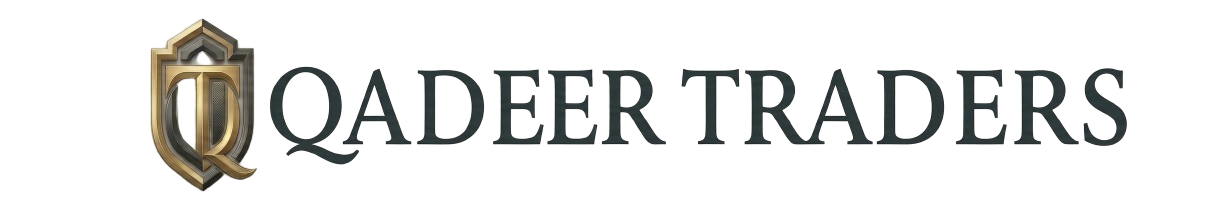
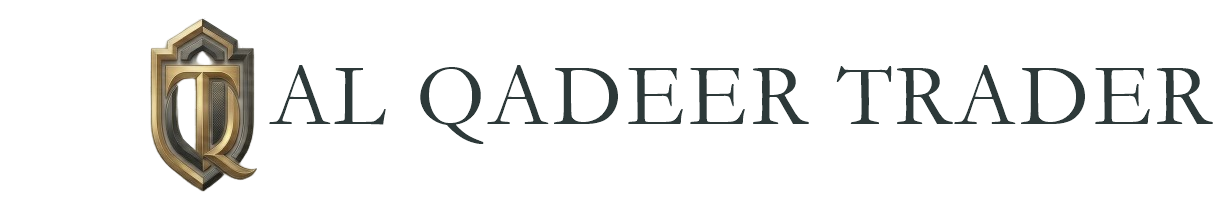
Rename Qadeer Traders to AL Qadeer Traders across the app

Changed region(s): [[0.2188, 0.322, 1.0, 0.8195]]

diff --git a/contact-us.html b/contact-us.html
@@ -8,7 +8,7 @@
     <link href="https://fonts.googleapis.com/css2?family=Playfair+Display:wght@400;700&family=Open+Sans:wght@300;400;600;700&display=swap" rel="stylesheet" /><link rel="stylesheet" href="styles.css" /><link rel="stylesheet" href="footer.css" /><link rel="stylesheet" href="responsive-nav.css" /><link rel="stylesheet" href="https://cdnjs.cloudflare.com/ajax/libs/font-awesome/6.7.2/css/all.min.css" />
   </head>
   <body class="inner-page">
-    <header class="navbar"><div class="nav-container"><a href="index.html" class="brand"><img src="image.png" alt="QADEER TRADERS" class="brand-logo" /></a><nav class="nav" aria-label="Main navigation"><ul class="nav-list"><li class="nav-item"><a href="index.html" class="nav-link">Home</a></li><li class="nav-item"><a href="about-us.html" class="nav-link">About Us</a></li><li class="nav-item dropdown"><button class="dropdown-toggle" aria-expanded="false">Products ▾</button><ul class="dropdown-menu"><li><a href="laminate-flooring.html">Laminate Wooden Flooring</a></li><li><a href="pvc-marble-sheets.html">PVC UV Marble Sheets</a></li><li><a href="wall-panels-pu-stone.html">Wall Panels &amp; PU Stone</a></li><li><a href="roller-blinds-smart-motors.html">Roller Blinds &amp; Smart Motors</a></li><li><a href="corian-vanities.html">Corian Vanities &amp; Tops</a></li><li><a href="custom-kitchens-wardrobes.html">Custom Kitchens &amp; Wardrobes</a></li><li><a href="wallpapers-murals.html">Wallpapers &amp; Murals</a></li></ul></li><li class="nav-item"><a href="services.html" class="nav-link">Services</a></li><li class="nav-item"><a href="contact-us.html" class="nav-link active">Contact Us</a></li></ul></nav></div></header>
+    <header class="navbar"><div class="nav-container"><a href="index.html" class="brand"><img src="image.png" alt="Al Qadeer Trader" class="brand-logo" /></a><nav class="nav" aria-label="Main navigation"><ul class="nav-list"><li class="nav-item"><a href="index.html" class="nav-link">Home</a></li><li class="nav-item"><a href="about-us.html" class="nav-link">About Us</a></li><li class="nav-item dropdown"><button class="dropdown-toggle" aria-expanded="false">Products ▾</button><ul class="dropdown-menu"><li><a href="laminate-flooring.html">Laminate Wooden Flooring</a></li><li><a href="pvc-marble-sheets.html">PVC UV Marble Sheets</a></li><li><a href="wall-panels-pu-stone.html">Wall Panels &amp; PU Stone</a></li><li><a href="roller-blinds-smart-motors.html">Roller Blinds &amp; Smart Motors</a></li><li><a href="corian-vanities.html">Corian Vanities &amp; Tops</a></li><li><a href="custom-kitchens-wardrobes.html">Custom Kitchens &amp; Wardrobes</a></li><li><a href="wallpapers-murals.html">Wallpapers &amp; Murals</a></li></ul></li><li class="nav-item"><a href="services.html" class="nav-link">Services</a></li><li class="nav-item"><a href="contact-us.html" class="nav-link active">Contact Us</a></li></ul></nav></div></header>
     <main><section class="inner-hero" style="background-image:url('pic2.jpeg')"><div class="inner-hero-content"><p class="eyebrow">Start a Conversation</p><h1>Let's Plan Your Space</h1><p>Share a few details about your project and the products you are considering.</p></div></section>
       <section class="inner-section"><div class="contact-layout"><aside class="contact-panel"><h2>Contact Information</h2><a class="contact-detail" href="tel:+923054003812"><strong>Phone</strong>+92 305 4003812<br />Syed Ahsan Naqvi</a><a class="contact-detail" href="tel:+923334596121"><strong>Contact</strong>+92 333 4596121<br />Farhan Mughal</a><a class="contact-detail" href="mailto:ahsannaqvi1122@gmail.com"><strong>Email</strong>ahsannaqvi1122@gmail.com</a><p class="contact-detail"><strong>Address:</strong>Building No. 216, Askari Bank, 1st Floor, FF, Phase 4, DHA Lahore</p></aside><div class="contact-panel"><h2>Tell Us About Your Project</h2><form class="contact-form" id="enquiryForm"><label>Name<input type="text" name="name" autocomplete="name" required /></label><label>Email<input type="email" name="email" autocomplete="email" required /></label><label>Phone<input type="tel" name="phone" autocomplete="tel" /></label><label>Service<select name="service"><option value="">Select a service</option><option>PVC UV Marble Sheets</option><option>Wall Panels &amp; PU Stone</option><option>Roller Blinds &amp; Smart Motors</option><option>Wallpapers &amp; Murals</option><option>Corian Vanities &amp; Tops</option><option>Custom Kitchens &amp; Wardrobes</option></select></label><label>Message<textarea name="message" required></textarea></label><button class="page-button" type="submit">Submit Enquiry</button></form></div></div></section>
       <section class="inner-cta"><h2>Ready to Talk?</h2><p>Call us directly or send your project details through the form above.</p><a class="page-button" href="tel:+923054003812">Call +92 305 4003812</a></section></main>

diff --git a/about-us.html b/about-us.html
@@ -8,7 +8,7 @@
     <link href="https://fonts.googleapis.com/css2?family=Playfair+Display:wght@400;700&family=Open+Sans:wght@300;400;600;700&display=swap" rel="stylesheet" /><link rel="stylesheet" href="styles.css" /><link rel="stylesheet" href="footer.css" /><link rel="stylesheet" href="responsive-nav.css" /><link rel="stylesheet" href="https://cdnjs.cloudflare.com/ajax/libs/font-awesome/6.7.2/css/all.min.css" />
   </head>
   <body class="inner-page">
-    <header class="navbar"><div class="nav-container"><a href="index.html" class="brand"><img src="image.png" alt="QADEER TRADERS" class="brand-logo" /></a><nav class="nav" aria-label="Main navigation"><ul class="nav-list"><li class="nav-item"><a href="index.html" class="nav-link">Home</a></li><li class="nav-item"><a href="about-us.html" class="nav-link active">About Us</a></li><li class="nav-item dropdown"><button class="dropdown-toggle" aria-expanded="false">Products ▾</button><ul class="dropdown-menu"><li><a href="laminate-flooring.html">Laminate Wooden Flooring</a></li><li><a href="pvc-marble-sheets.html">PVC UV Marble Sheets</a></li><li><a href="wall-panels-pu-stone.html">Wall Panels &amp; PU Stone</a></li><li><a href="roller-blinds-smart-motors.html">Roller Blinds &amp; Smart Motors</a></li><li><a href="corian-vanities.html">Corian Vanities &amp; Tops</a></li><li><a href="custom-kitchens-wardrobes.html">Custom Kitchens &amp; Wardrobes</a></li><li><a href="wallpapers-murals.html">Wallpapers &amp; Murals</a></li></ul></li><li class="nav-item"><a href="services.html" class="nav-link">Services</a></li><li class="nav-item"><a href="contact-us.html" class="nav-link">Contact Us</a></li></ul></nav></div></header>
+    <header class="navbar"><div class="nav-container"><a href="index.html" class="brand"><img src="image.png" alt="Al Qadeer Trader" class="brand-logo" /></a><nav class="nav" aria-label="Main navigation"><ul class="nav-list"><li class="nav-item"><a href="index.html" class="nav-link">Home</a></li><li class="nav-item"><a href="about-us.html" class="nav-link active">About Us</a></li><li class="nav-item dropdown"><button class="dropdown-toggle" aria-expanded="false">Products ▾</button><ul class="dropdown-menu"><li><a href="laminate-flooring.html">Laminate Wooden Flooring</a></li><li><a href="pvc-marble-sheets.html">PVC UV Marble Sheets</a></li><li><a href="wall-panels-pu-stone.html">Wall Panels &amp; PU Stone</a></li><li><a href="roller-blinds-smart-motors.html">Roller Blinds &amp; Smart Motors</a></li><li><a href="corian-vanities.html">Corian Vanities &amp; Tops</a></li><li><a href="custom-kitchens-wardrobes.html">Custom Kitchens &amp; Wardrobes</a></li><li><a href="wallpapers-murals.html">Wallpapers &amp; Murals</a></li></ul></li><li class="nav-item"><a href="services.html" class="nav-link">Services</a></li><li class="nav-item"><a href="contact-us.html" class="nav-link">Contact Us</a></li></ul></nav></div></header>
     <main><section class="inner-hero" style="background-image:url('pic.jpeg')"><div class="inner-hero-content"><p class="eyebrow">About Al Qadeer Trader</p><h1>Materials with a Modern Sense of Home</h1><p>We bring together surfaces, finishes and practical interior products for spaces that feel considered and personal.</p></div></section>
       <section class="inner-section"><div class="inner-copy section-heading"><p class="eyebrow">Our Approach</p><h2>Good interiors begin with the right details</h2><p>Al Qadeer Trader offers a curated range of flooring, wall finishes, blinds, Corian surfaces, wallpapers, kitchens and wardrobes. Our focus is on helping customers make confident choices for residential, commercial and hospitality interiors.</p><p>We value quality materials, contemporary design and a customer-focused process that keeps the finished space at the centre of every decision.</p></div><div class="value-grid"><article class="value-card"><h3>Quality Materials</h3><p>We focus on dependable finishes selected for everyday interiors and lasting visual appeal.</p></article><article class="value-card"><h3>Modern Designs</h3><p>Our collections make it easier to bring current textures, patterns and surfaces into a space.</p></article><article class="value-card"><h3>Attention to Detail</h3><p>From the first product choice to the final look, thoughtful details make the difference.</p></article><article class="value-card"><h3>Customer Focus</h3><p>We listen to the needs of each project and help match products to the intended use.</p></article></div></section>
       <section class="inner-cta"><h2>Bring Your Interior Idea to Life</h2><p>Browse our collections or speak with Al Qadeer Trader about your project.</p><a class="page-button" href="services.html">Explore Services</a></section></main>

diff --git a/index.html b/index.html
@@ -18,7 +18,7 @@
   <body>
     <header class="navbar">
       <div class="nav-container">
-        <a href="index.html" class="brand"><img src="image.png" alt="QADEER TRADERS" class="brand-logo"></a>
+        <a href="index.html" class="brand"><img src="image.png" alt="Al Qadeer Trader" class="brand-logo"></a>
 
         <button
           class="nav-toggle"
@@ -59,7 +59,7 @@
       <div class="mobile-menu-inner">
         <button class="mobile-close" aria-label="Close menu">✕</button>
 
-        <a href="index.html" class="mobile-brand"><img src="image.png" alt="QADEER TRADERS" class="brand-logo"></a>
+        <a href="index.html" class="mobile-brand"><img src="image.png" alt="Al Qadeer Trader" class="brand-logo"></a>
 
         <ul class="mobile-menu-list">
           <li class="mobile-item"><a href="index.html">Home</a></li>
@@ -165,7 +165,7 @@
     <footer class="site-footer">
       <div class="footer-inner">
         <div class="footer-top">
-          <div class="footer-logo">QADEER TRADERS</div>
+          <div class="footer-logo">Al Qadeer Trader</div>
         </div>
 
         <div class="footer-row">
@@ -245,7 +245,7 @@
         </div>
 
         <div class="footer-bottom">
-          <p>© 2026 QADEER TRADERS. All rights reserved.</p>
+          <p>© 2026 Al Qadeer Trader. All rights reserved.</p>
         </div>
       </div>
     </footer>

diff --git a/footer.js b/footer.js
@@ -3,7 +3,7 @@ document.querySelectorAll("[data-site-footer]").forEach((placeholder) => {
     <footer class="site-footer">
       <div class="footer-inner">
         <div class="footer-top">
-          <div class="footer-logo">QADEER TRADERS</div>
+          <div class="footer-logo">Al Qadeer Trader</div>
         </div>
 
         <div class="footer-row">
@@ -50,7 +50,7 @@ document.querySelectorAll("[data-site-footer]").forEach((placeholder) => {
         </div>
 
         <div class="footer-bottom">
-          <p>&copy; 2026 QADEER TRADERS. All rights reserved.</p>
+          <p>&copy; 2026 Al Qadeer Trader. All rights reserved.</p>
         </div>
       </div>
     </footer>`;

diff --git a/services.html b/services.html
@@ -16,7 +16,7 @@
   <body class="inner-page">
     <header class="navbar">
       <div class="nav-container">
-        <a href="index.html" class="brand"><img src="image.png" alt="QADEER TRADERS" class="brand-logo" /></a>
+        <a href="index.html" class="brand"><img src="image.png" alt="Al Qadeer Trader" class="brand-logo" /></a>
         <nav class="nav" aria-label="Main navigation">
           <ul class="nav-list">
             <li class="nav-item"><a href="index.html" class="nav-link">Home</a></li>

diff --git a/corian-vanities.html b/corian-vanities.html
@@ -59,7 +59,7 @@
   <body>
     <header class="navbar">
       <div class="nav-container">
-        <a href="index.html" class="brand"><img src="image.png" alt="QADEER TRADERS" class="brand-logo"></a>
+        <a href="index.html" class="brand"><img src="image.png" alt="Al Qadeer Trader" class="brand-logo"></a>
         <nav class="nav" aria-label="Main navigation">
           <ul class="nav-list">
             <li class="nav-item"><a href="index.html" class="nav-link">Home</a></li>

diff --git a/custom-kitchens-wardrobes.html b/custom-kitchens-wardrobes.html
@@ -59,7 +59,7 @@
   <body>
     <header class="navbar">
       <div class="nav-container">
-        <a href="index.html" class="brand"><img src="image.png" alt="QADEER TRADERS" class="brand-logo"></a>
+        <a href="index.html" class="brand"><img src="image.png" alt="Al Qadeer Trader" class="brand-logo"></a>
         <nav class="nav" aria-label="Main navigation">
           <ul class="nav-list">
             <li class="nav-item"><a href="index.html" class="nav-link">Home</a></li>

diff --git a/roller-blinds-smart-motors.html b/roller-blinds-smart-motors.html
@@ -64,7 +64,7 @@
   <body>
     <header class="navbar">
       <div class="nav-container">
-        <a href="index.html" class="brand"><img src="image.png" alt="QADEER TRADERS" class="brand-logo"></a>
+        <a href="index.html" class="brand"><img src="image.png" alt="Al Qadeer Trader" class="brand-logo"></a>
         <nav class="nav" aria-label="Main navigation">
           <ul class="nav-list">
             <li class="nav-item"><a href="index.html" class="nav-link">Home</a></li>

diff --git a/wall-panels-pu-stone.html b/wall-panels-pu-stone.html
@@ -66,7 +66,7 @@
   <body>
     <header class="navbar">
       <div class="nav-container">
-        <a href="index.html" class="brand"><img src="image.png" alt="QADEER TRADERS" class="brand-logo"></a>
+        <a href="index.html" class="brand"><img src="image.png" alt="Al Qadeer Trader" class="brand-logo"></a>
         <nav class="nav" aria-label="Main navigation">
           <ul class="nav-list">
             <li class="nav-item"><a href="index.html" class="nav-link">Home</a></li>

diff --git a/wallpapers-murals.html b/wallpapers-murals.html
@@ -59,7 +59,7 @@
   <body>
     <header class="navbar">
       <div class="nav-container">
-        <a href="index.html" class="brand"><img src="image.png" alt="QADEER TRADERS" class="brand-logo"></a>
+        <a href="index.html" class="brand"><img src="image.png" alt="Al Qadeer Trader" class="brand-logo"></a>
         <nav class="nav" aria-label="Main navigation">
           <ul class="nav-list">
             <li class="nav-item"><a href="index.html" class="nav-link">Home</a></li>

diff --git a/laminate-flooring.html b/laminate-flooring.html
@@ -229,7 +229,7 @@
   <body>
     <header class="navbar">
       <div class="nav-container">
-        <a href="index.html" class="brand"><img src="image.png" alt="QADEER TRADERS" class="brand-logo"></a>
+        <a href="index.html" class="brand"><img src="image.png" alt="Al Qadeer Trader" class="brand-logo"></a>
 
         <nav class="nav" aria-label="Main navigation">
           <ul class="nav-list">

diff --git a/pvc-marble-sheets.html b/pvc-marble-sheets.html
@@ -229,7 +229,7 @@
   <body>
     <header class="navbar">
       <div class="nav-container">
-        <a href="index.html" class="brand"><img src="image.png" alt="QADEER TRADERS" class="brand-logo"></a>
+        <a href="index.html" class="brand"><img src="image.png" alt="Al Qadeer Trader" class="brand-logo"></a>
 
         <nav class="nav" aria-label="Main navigation">
           <ul class="nav-list">
